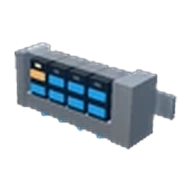
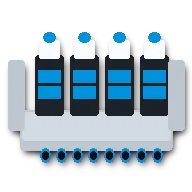
fix(covers): capas 3D isométricas leves para uniões pneumáticas
- QSY / QSL / QS / QST, compressor Maxxim e VTUG em WebP ~1.5–6 KiB.
- Visual isométrico com corpo preto + anéis azuis (estilo produto 3D).
- Cache de capas v5 para invalidar miniaturas 2D antigas.

diff --git a/src/three/componentCoverAssets.ts b/src/three/componentCoverAssets.ts
@@ -21,7 +21,7 @@ const IDB_NAME = 'dc-simu-covers'
 const IDB_STORE = 'covers'
 const IDB_VERSION = 1
 /** Prefixo de versão: mudar quando o enquadramento/estilo das capas mudar. */
-const COVER_KEY_PREFIX = 'v4-glb:'
+const COVER_KEY_PREFIX = 'v5-glb:'
 
 const staticProbe = new Map<string, Promise<string | null>>()
 const memory = new Map<string, string>()
